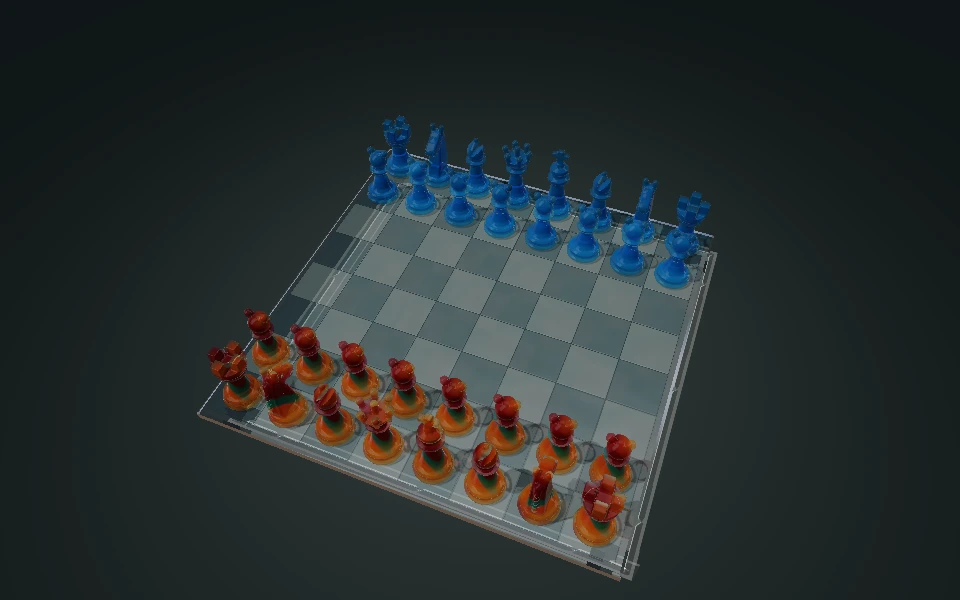
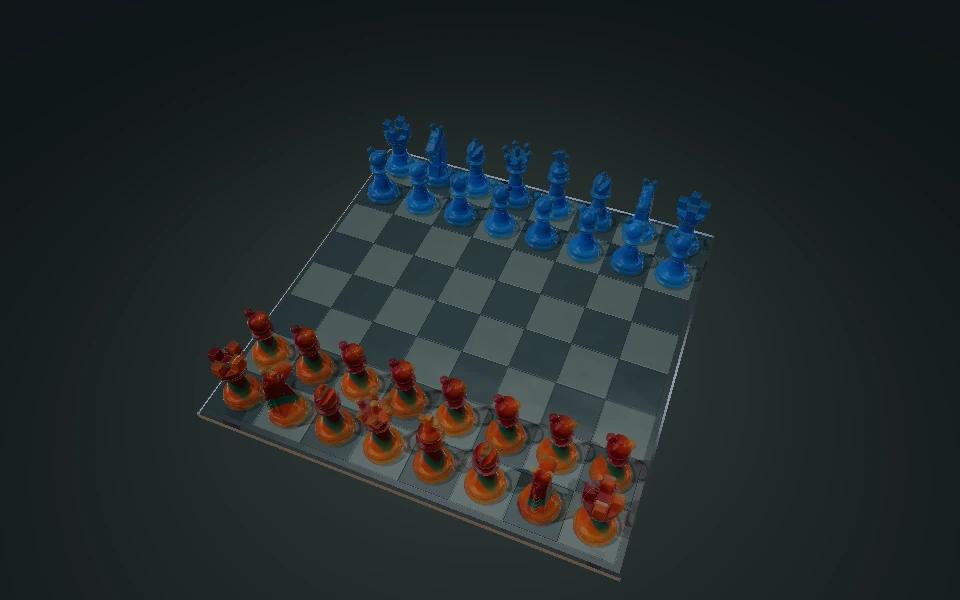
Remove glass floor footprint and rotate all capture mechanics

Changed region(s): [[0.25, 0.3, 0.75, 0.96]]

diff --git a/packages/app/src/components/GummyBoard/gummyBoardStageShaders.ts b/packages/app/src/components/GummyBoard/gummyBoardStageShaders.ts
@@ -192,8 +192,8 @@ const gummyBoardGlassSupportMaterial = tgpu.fn(
   )
 })
 
-/** Both directions share the same lightly cast surface; this is a shading-normal approximation. */
-export const gummyBoardGlassNormal = tgpu.fn(
+/** Smooth cast surface shared by camera rays and area-averaged transmitted light. */
+const gummyBoardGlassCastNormal = tgpu.fn(
   [d.vec3f, d.vec3f],
   d.vec3f,
 )((point, normal) => {
@@ -202,17 +202,22 @@ export const gummyBoardGlassNormal = tgpu.fn(
   const grain = perlin2d.sampleWithGradient(
     std.add(std.mul(point.xz, 1.15), d.vec2f(4.7, 8.3)),
   )
-  const inset = gummyBoardGlassInset(point.xz)
   return std.normalize(
-    std.add(
-      normal,
-      d.vec3f(
-        grain.y * 0.008 + inset.bevel.x,
-        0,
-        grain.z * 0.008 + inset.bevel.y,
-      ),
-    ),
+    std.add(normal, d.vec3f(grain.y * 0.008, 0, grain.z * 0.008)),
   )
+})
+
+/** Etched micro-bevels remain sharp in reflections; their transmitted pattern
+ * averages out beneath the frosted insets and broad studio lights. */
+export const gummyBoardGlassNormal = tgpu.fn(
+  [d.vec3f, d.vec3f],
+  d.vec3f,
+)((point, normal) => {
+  'use gpu'
+  const cast = gummyBoardGlassCastNormal(point, normal)
+  if (normal.y < 0.99) return cast
+  const inset = gummyBoardGlassInset(point.xz)
+  return std.normalize(std.add(cast, d.vec3f(inset.bevel.x, 0, inset.bevel.y)))
 })
 
 export const GummyBoardGlassPath = d.struct({
@@ -288,7 +293,7 @@ const gummyBoardGlassLightRay = tgpu.fn(
   const point = std.add(origin, std.mul(incident, entry.w))
   const path = gummyBoardGlassPath(
     point,
-    gummyBoardGlassNormal(point, entry.xyz),
+    gummyBoardGlassCastNormal(point, entry.xyz),
     incident,
   )
   if (path.valid < 0.5 || path.direction.y >= -0.05) return result
@@ -301,6 +306,24 @@ const gummyBoardGlassLightRay = tgpu.fn(
   )
   result.energy = d.vec3f(path.transmission)
   return result
+})
+
+/** Only focused excess belongs over the studio's existing illumination. Fade the
+ * unresolved slab rim instead of drawing its projection as a second board. */
+export const gummyBoardGlassFocus = tgpu.fn(
+  [d.f32, d.vec2f],
+  d.f32,
+)((gain, source) => {
+  'use gpu'
+  const edge = std.max(std.abs(source.x), std.abs(source.y))
+  const interior =
+    1 -
+    std.smoothstep(
+      GUMMY_BOARD_GRID.halfExtent - 0.3,
+      GUMMY_BOARD_SLAB.halfExtent - 0.15,
+      edge,
+    )
+  return std.min(std.max(gain - 1, 0), 3) * interior
 })
 
 /** Static board-only two-interface transport. Piece caustics retain their existing approximation. */
@@ -346,7 +369,10 @@ export const gummyBoardGlassLightVertex = tgpu.vertexFn({
   if (ra.floor.w * rb.floor.w * rc.floor.w > 0.5 && area > 0.000001)
     gain = std.min(incoming / area, 10)
   else clip = d.vec4f(2, 2, 2, 1)
-  return { position: clip, energy: std.mul(ray.energy, gain * 1.55) }
+  return {
+    position: clip,
+    energy: std.mul(ray.energy, gummyBoardGlassFocus(gain, ray.source.xz)),
+  }
 })
 export const gummyBoardGlassLightFragment = tgpu.fragmentFn({
   in: { energy: d.vec3f },

diff --git a/packages/app/src/components/GummyBoard/gummyCaptureMechanics.test.ts b/packages/app/src/components/GummyBoard/gummyCaptureMechanics.test.ts
@@ -4,8 +4,43 @@ import { GUMMY_CHESS_MOULDS } from '@/simulation/gummy/gummyChessMoulds'
 import { GUMMY_BOARD_GRID } from './gummyBoardGrid'
 import { GUMMY_BOARD_SHOTS, gummyBoardShotPose, gummyBoardShotRotation, gummyBoardShotStep, resolveGummyBoardShot, resolveGummyBoardShotMotion, } from './gummyBoardShots'
 import { chooseGummyCaptureMechanic, createGummyCaptureMechanic, GUMMY_CAPTURE_MECHANICS, gummyCaptureMechanicContext, parseGummyCaptureMechanic, } from './gummyCaptureMechanics'
+import type { GummyCaptureMechanicId } from './gummyCaptureMechanics'
 
 describe('physical capture mechanics', () => {
+  it('includes the original press in every seeded three-choice round without repeating at the boundary', () => {
+    for (const seed of [0, 1, 2, 21, 0xffffffff]) {
+      const history: GummyCaptureMechanicId[] = []
+      for (let index = 0; index < 30; index++) {
+        const choice = chooseGummyCaptureMechanic(seed, history)
+        expect(choice).toEqual(chooseGummyCaptureMechanic(seed, [...history]))
+        expect(choice.mechanic.id).not.toBe(history.at(-1))
+        history.push(choice.mechanic.id)
+        if (history.length % 3 === 0) {
+          const round = history.slice(-3)
+          expect(new Set(round).size).toBe(3)
+          expect(round).toContain('press-settle')
+        }
+      }
+    }
+  })
+
+  it('counts repeated safe presses once and resumes the unfinished round when space becomes available', () => {
+    const history: GummyCaptureMechanicId[] = []
+    for (let index = 0; index < 4; index++)
+      history.push(
+        chooseGummyCaptureMechanic(index, history, {
+          maxShearDistance: 0,
+          maxTwistAngle: 0,
+        }).mechanic.id,
+      )
+    expect(history).toEqual(Array(4).fill('press-settle'))
+    for (let index = 0; index < 2; index++)
+      history.push(chooseGummyCaptureMechanic(index, history).mechanic.id)
+    expect(new Set(history.slice(-3)).size).toBe(3)
+    const choice = chooseGummyCaptureMechanic(5, history)
+    expect(choice.mechanic.id).not.toBe(history.at(-1))
+  })
+
   it('limits a corner capture against the board edge even with no nearby pieces', () => {
     const base = {
       ...GUMMY_BOARD_SHOTS[0]!,

diff --git a/packages/app/src/pages/GummyBoard/useGummyMatch.test.ts b/packages/app/src/pages/GummyBoard/useGummyMatch.test.ts
@@ -27,6 +27,44 @@ function matchAtCapture() {
 }
 
 describe('saved capture presentation', () => {
+  it('keeps the original straight press in the rotation across imported captures, reload and new moves', () => {
+    const { result: initial } = renderHook(useGummyMatch)
+    expect(initial.importPgn('1. e4 d5 2. exd5 Qxd5 *')).toBe(true)
+    initial.seek(4)
+    const firstTwo = structuredClone(loadGummyMatchSession().session!.captures!)
+    const { result: match } = renderHook(useGummyMatch)
+    for (const [from, to] of [
+      ['b1', 'c3'],
+      ['d5', 'e5'],
+      ['f1', 'e2'],
+      ['c8', 'g4'],
+      ['g1', 'f3'],
+      ['g4', 'f3'],
+      ['g2', 'f3'],
+    ] as const) {
+      match.commit({ from, to })
+      expect(match.error()).toBe('')
+      match.finishAnimation()
+    }
+    const saved = loadGummyMatchSession().session!
+    expect(saved.captures).toHaveLength(4)
+    expect(saved.captures!.slice(0, 2)).toEqual(firstTwo)
+    const ids = saved.captures!.map((capture) => capture.mechanic!.id)
+    expect(new Set(ids.slice(0, 3)).size).toBe(3)
+    expect(ids.slice(0, 3)).toContain('press-settle')
+    expect(ids[3]).not.toBe(ids[2])
+    const press = saved.captures!.find(
+      (capture) => capture.mechanic!.id === 'press-settle',
+    )!
+    expect(press.motion.shearOnset).toBe(1)
+    expect(press.motion.contactHold).toBe(0)
+    expect(press.motion.twistAngle).toBeUndefined()
+    const { result: replay } = renderHook(useGummyMatch)
+    replay.seek(press.ply)
+    replay.replay()
+    expect(replay.activePresentation()).toEqual(press)
+  })
+
   it('keeps the chosen motion and material through skip, replay, reload and Cinema handoff', () => {
     const match = matchAtCapture()
     const original = structuredClone(match.currentPresentation()!)

diff --git a/packages/app/src/components/GummyBoard/gummyBoardThemes.test.ts b/packages/app/src/components/GummyBoard/gummyBoardThemes.test.ts
@@ -1,11 +1,32 @@
 /** Theme codes and the analytic slab preserve board geometry and finite grazing hits. */
 import { d, tgpu } from 'typegpu'
 import { describe, expect, it } from 'vitest'
-import { gummyBoardBevelHit, gummyBoardGlassSupportHit, gummyBoardLavaSite, gummyBoardStageLighting, gummyBoardStageMaterial, gummyBoardStudioFloor, gummyBoardTileColour, } from './gummyBoardStageShaders'
+import { gummyBoardBevelHit, gummyBoardGlassFocus, gummyBoardGlassSupportHit, gummyBoardLavaSite, gummyBoardStageLighting, gummyBoardStageMaterial, gummyBoardStudioFloor, gummyBoardTileColour, } from './gummyBoardStageShaders'
 import { GUMMY_BOARD_GLASS_FLOOR, gummyBoardThemeCode, } from './gummyBoardThemes'
 import type { GummyBoardTheme } from './gummyBoardThemes'
 
 describe('gummy board stage themes', () => {
+  it('does not paint an unfocused rectangular light patch or a second slab rim on the floor', () => {
+    for (const gain of [0, 0.7, 1])
+      expect(gummyBoardGlassFocus(gain, d.vec2f(0))).toBe(0)
+    expect(gummyBoardGlassFocus(2, d.vec2f(0))).toBe(1)
+    expect(gummyBoardGlassFocus(100, d.vec2f(0))).toBe(3)
+    for (const source of [
+      d.vec2f(6.3, 0),
+      d.vec2f(-6.3, 0),
+      d.vec2f(0, 6.3),
+      d.vec2f(0, -6.3),
+    ])
+      expect(gummyBoardGlassFocus(2, source)).toBeCloseTo(0.5, 5)
+    for (const source of [
+      d.vec2f(6.5, 0),
+      d.vec2f(-6.5, 0),
+      d.vec2f(0, 6.65),
+      d.vec2f(0, -6.65),
+    ])
+      expect(gummyBoardGlassFocus(10, source)).toBe(0)
+  })
+
   it('mixes both cell coordinates so lava sites cannot form a rectangular grid', () => {
     const origin = gummyBoardLavaSite(d.vec2f(0, 0))
     const row = gummyBoardLavaSite(d.vec2f(0, 1))

diff --git a/packages/app/src/components/GummyBoard/gummyCaptureMechanics.ts b/packages/app/src/components/GummyBoard/gummyCaptureMechanics.ts
@@ -107,10 +107,24 @@ export function createGummyCaptureMechanic(
   return { mechanic, motion: resolveGummyBoardShotMotion(motion) }
 }
 
-/** Selection happens once per receipt; callers persist both the tag and the resolved motion. */
+/** Reconstruct a shuffle bag from saved choices so each round includes every mechanic.
+ * Repeated safety fallbacks count once; replay never invokes this selection function.
+ */
+function remainingMechanics(history: readonly GummyCaptureMechanicId[]) {
+  const used = new Set<GummyCaptureMechanicId>()
+  for (const id of history) {
+    used.add(id)
+    if (used.size === GUMMY_CAPTURE_MECHANICS.length) used.clear()
+  }
+  return GUMMY_CAPTURE_MECHANICS.map(({ id }) => id).filter(
+    (id) => !used.has(id) && id !== history.at(-1),
+  )
+}
+
+/** Seeded order, without starvation or immediate repeats. Persist the resolved result once per receipt. */
 export function chooseGummyCaptureMechanic(
   seed: number,
-  previousId?: GummyCaptureMechanicId,
+  previous: GummyCaptureMechanicId | readonly GummyCaptureMechanicId[] = [],
   context: GummyCaptureMechanicContext = {},
 ) {
   parseGummyCaptureMechanic({ version: 1, id: 'press-settle', seed })
@@ -119,9 +133,7 @@ export function chooseGummyCaptureMechanic(
     cap(context.maxTwistAngle, 0.35) < 0.005
   const ids = cramped
     ? ['press-settle' as const]
-    : GUMMY_CAPTURE_MECHANICS.map(({ id }) => id).filter(
-        (id) => id !== previousId,
-      )
+    : remainingMechanics(typeof previous === 'string' ? [previous] : previous)
   return createGummyCaptureMechanic(
     ids[mixedSeed(seed) % ids.length]!,
     seed,

diff --git a/packages/app/src/pages/GummyBoard/gummyMatchCaptures.ts b/packages/app/src/pages/GummyBoard/gummyMatchCaptures.ts
@@ -41,7 +41,7 @@ function captureSeed(receipt: ChessMoveReceipt) {
 export function createGummyMatchCapturePresentation(
   receipt: ChessMoveReceipt,
   appearance: GummyMatchAppearance,
-  previous?: GummyMatchCapturePresentation,
+  previous: readonly GummyMatchCapturePresentation[] = [],
   legacy = false,
 ): GummyMatchCapturePresentation | undefined {
   const shot = gummyMatchCaptureShot(receipt, appearance.theme)
@@ -50,7 +50,9 @@ export function createGummyMatchCapturePresentation(
     ? undefined
     : chooseGummyCaptureMechanic(
         captureSeed(receipt),
-        previous?.mechanic?.id,
+        previous.flatMap((capture) =>
+          capture.mechanic ? [capture.mechanic.id] : [],
+        ),
         gummyCaptureMechanicContext(shot, appearance.scale),
       )
   return {
@@ -75,7 +77,7 @@ export function createGummyMatchCaptures(
     const presentation = createGummyMatchCapturePresentation(
       receipt,
       appearance,
-      captures.at(-1),
+      captures,
       legacy,
     )
     if (presentation) captures.push(presentation)

diff --git a/packages/app/src/pages/GummyBoard/useGummyMatch.ts b/packages/app/src/pages/GummyBoard/useGummyMatch.ts
@@ -86,7 +86,7 @@ export function useGummyMatch() {
       const presentation = createGummyMatchCapturePresentation(
         result.receipt,
         appearance(),
-        retained.at(-1),
+        retained,
       )
       batch(() => {
         setCaptures(presentation ? [...retained, presentation] : retained)

diff --git a/docs/gummy-chess-arcade-plan.md b/docs/gummy-chess-arcade-plan.md
@@ -103,7 +103,11 @@ regions on the existing slab, not 64 new meshes or recessed collision shapes.
 Every playable square and marker stays on the contact plane. The glass below is
 a neutral substrate with thin coloured insets; the separate lower receiver at
 `GUMMY_BOARD_GLASS_FLOOR` contains transmitted light and no playing-grid texture.
-Restrained surface frost and receiver brightness preserve the optical response.
+The receiver adds only focused excess over the studio illumination, with a soft
+source-rim taper. Ordinary transmission no longer paints a bright rectangular
+carpet. Camera reflections retain the etched micro-bevels; transmitted light uses
+the smooth cast normal as an approximation of frost and broad studio-light
+averaging, so there is no second etched grid visible through the top.
 
 This adds no draw calls, textures, per-frame geometry or uniform layout changes.
 It retains the fixed 96 by 96 light grid and cached receiver transport. It does
@@ -120,7 +124,10 @@ are retained with the glass captures under
 `/home/maff/agent-out/chaos-master-fp/2026-10-08/glass-captures/`. Native Arcade
 selection markers and complete capture framing passed on Glass. All-corner
 touch selection and physical iOS/tablet checks remain open. No gummy-piece
-remeshing was required.
+remeshing was required. The floor follow-up was checked from overhead, grazing
+and near-horizontal cameras, with no GPU errors. Matched Classic and Lava
+control captures are retained alongside the glass views in
+`/home/maff/agent-out/chaos-master-fp/2026-10-08/glass-floor-fix/`.
 
 ## Capture mechanics and reproducible variety (G17)
 
@@ -134,9 +141,11 @@ square:
 | Rock and shear   | Alternate a small turn around the vertical axis while pressing and sweeping | Visible mesh and collider share yaw; contact includes angular velocity |
 
 `gummyCaptureMechanics.ts` chooses once per ordinary committed capture using a
-stable receipt seed. It avoids the preceding mechanic when compatible alternatives
-exist; a cramped position can fall back to Press and settle. Shared mould bounds
-and board occupancy cap travel and yaw before saving the choice. These conservative
+stable receipt seed and a shuffle bag reconstructed from retained captures. Each
+round includes all three mechanics once, with no immediate repeat across rounds;
+a cramped position can fall back to Press and settle. Repeated safety fallbacks
+count once toward the round, so the other motions resume when space opens up.
+Shared mould bounds and board occupancy cap travel and yaw before saving the choice. These conservative
 limits can make the motion subtle on crowded squares. Material and quality remain
 explicit settings, rather than separate selector heuristics.
 
@@ -158,6 +167,13 @@ source/target square or size recalculates clearance using the same mechanic and
 seed; incomplete position input stays editable until valid. Custom and legacy
 motion remains explicit through those edits. No choice is made during drawing or
 replay.
+
+The floor and selection follow-up passes 68 focused tests across board themes,
+grid alignment, capture selection, shot motion, match state and saved sessions.
+The original press retains its late sweep and zero twist. Regression coverage
+checks complete shuffled rounds, repeated safety fallbacks, reload followed by
+more captures, and replay of the saved press. Native Arcade and standalone match
+pages load with HMR enabled and no page, GPU or failed-request errors.
 
 Native Chromium on the desktop AMD GPU ran all three mechanics at Tablet quality
 for the pawn-versus-knight Glass shot. Sampled particle state remained finite,

diff --git a/docs/gummy-chess-play.md b/docs/gummy-chess-play.md
@@ -48,9 +48,9 @@ promotion and ordinary moves have short move animations. Special captures are
 legal even where the cinematic crush does not yet support their presentation.
 
 Captures now vary between **Press and settle**, **Shoulder sweep** and **Rock and
-shear**. The match chooses once when the move is committed, avoids an immediate
-repeat when compatible alternatives exist, and reduces travel or rotation around
-nearby pieces. A crowded position can use the simpler press. **Game & moves**
+shear**. The match uses all three in a shuffled round, including the original
+straight-down press, before refilling the choices. It avoids immediate repeats
+between rounds and reduces travel or rotation around nearby pieces. A crowded position can use the simpler press. **Game & moves**
 shows the selected capture's motion above its Cinema link. Replaying the move
 uses the same choice and saved material rather than choosing again.
 
